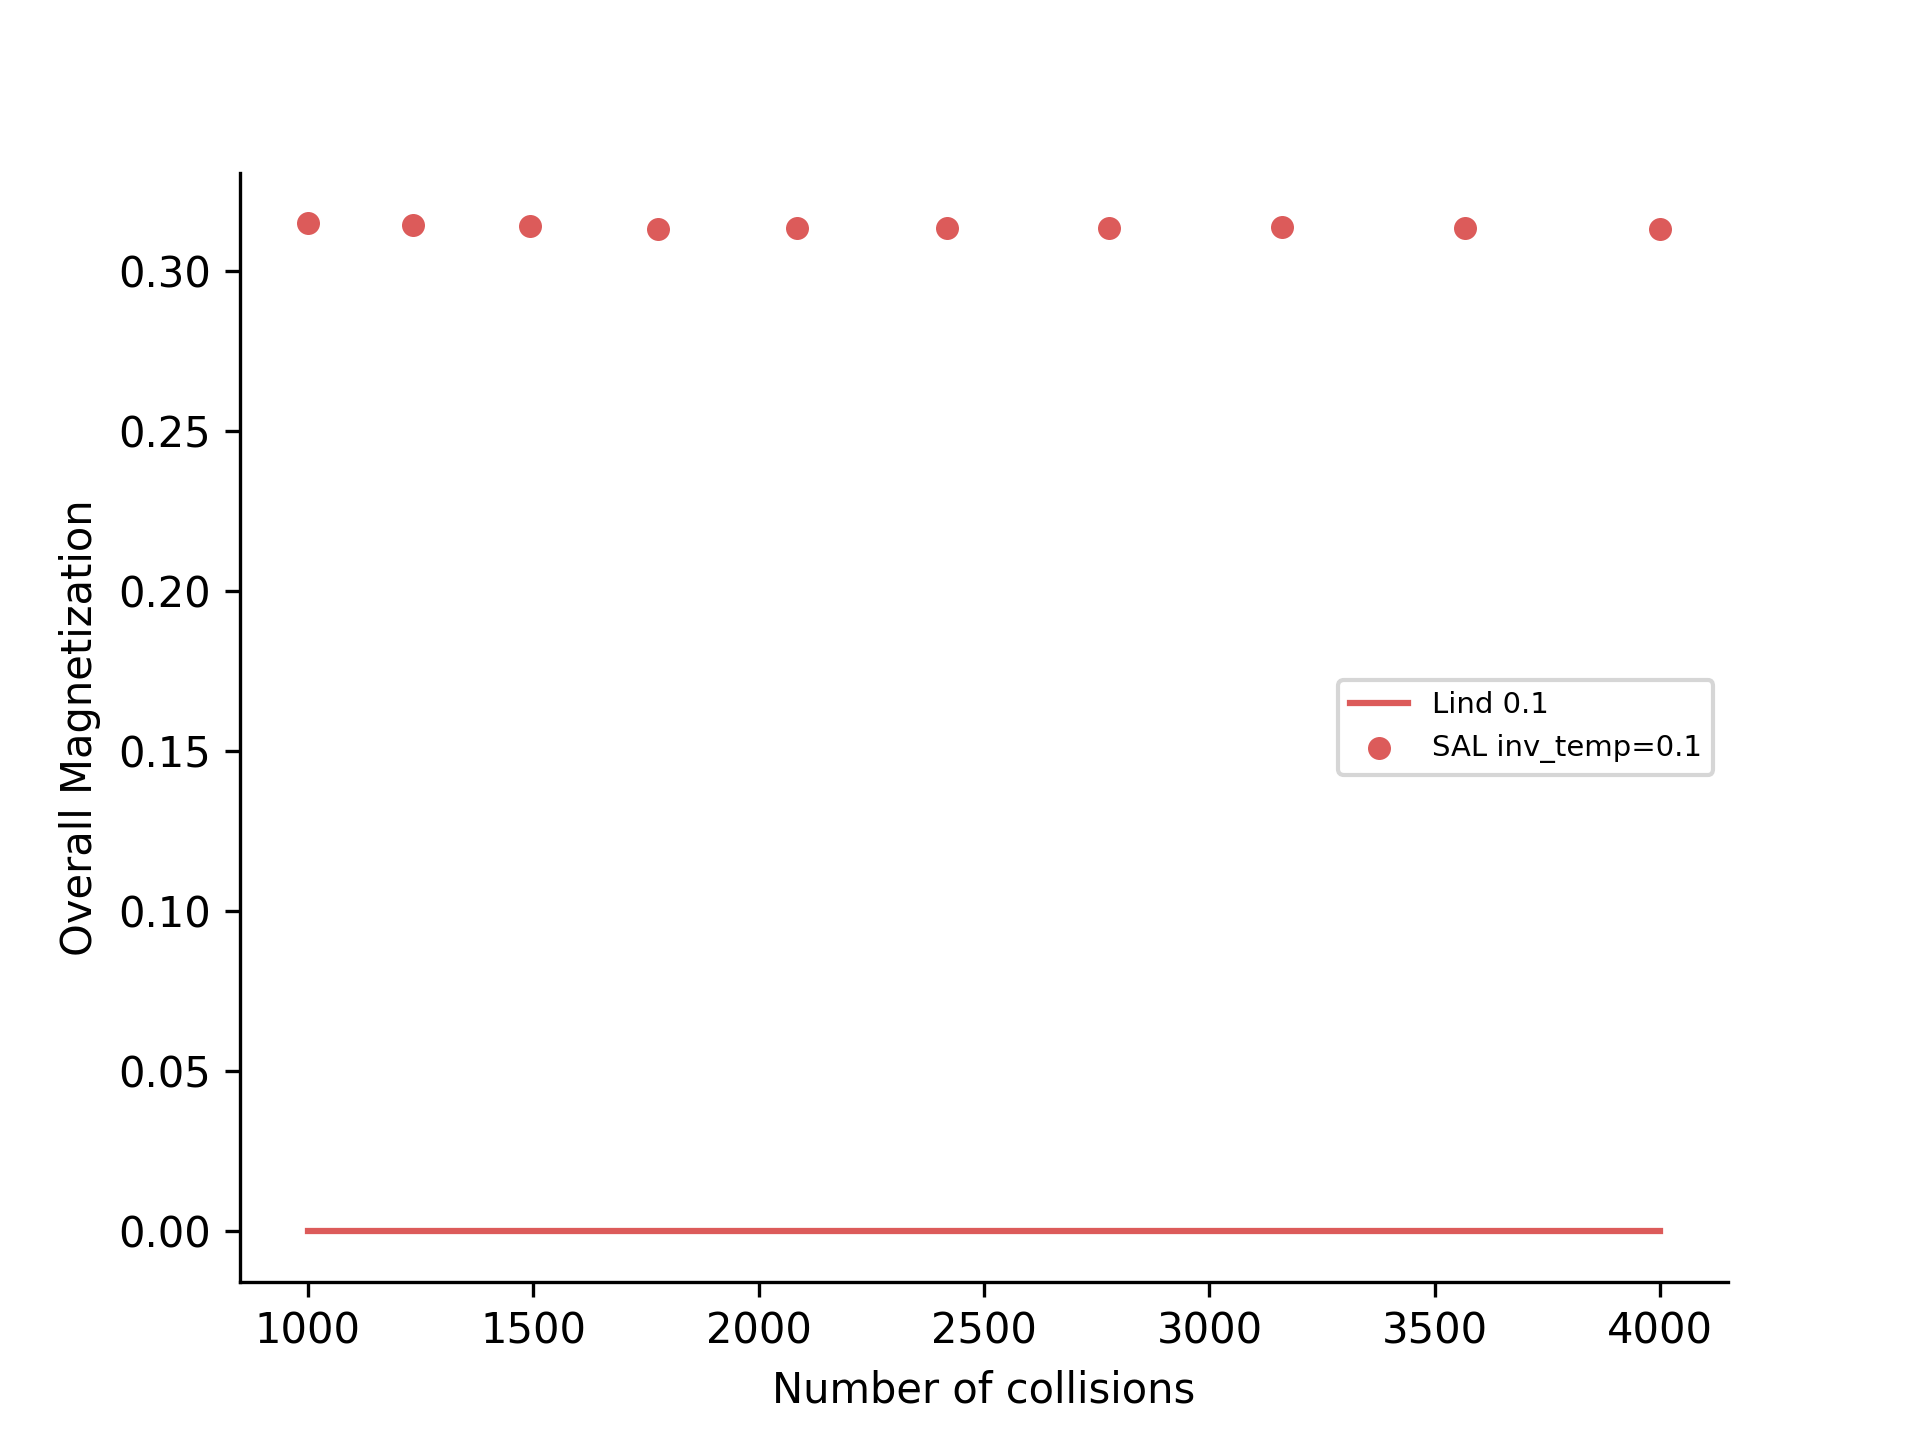
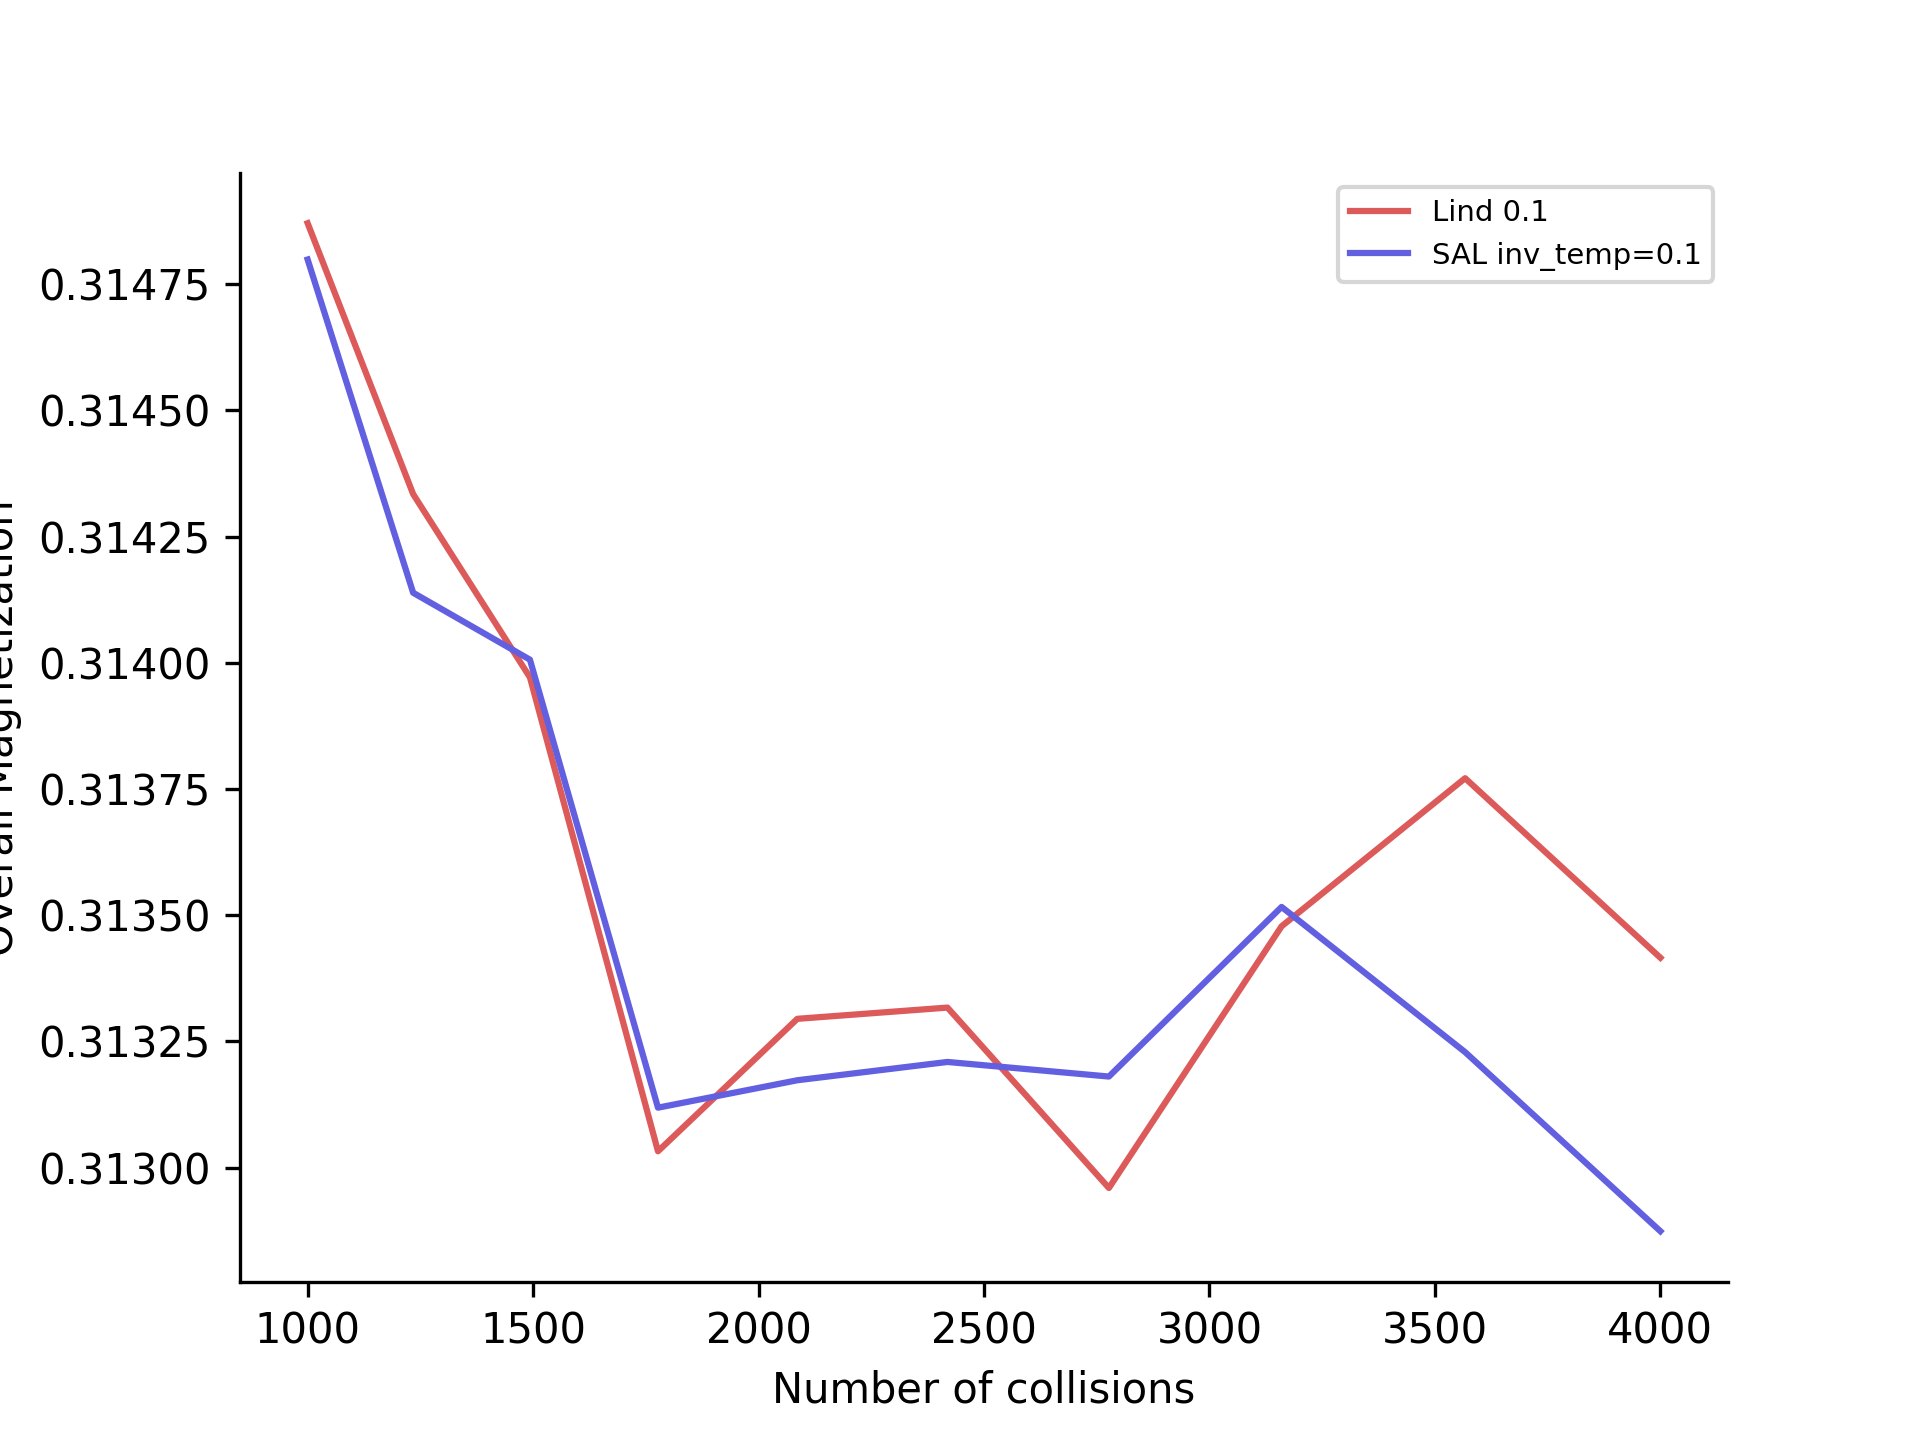
another bad plot

diff --git a/ising/nonmarkovian/swap/multi_temperature.py b/ising/nonmarkovian/swap/multi_temperature.py
@@ -24,12 +24,12 @@ def calculate_gamma(beta):
     return np.exp(-beta) / (1 + np.exp(-beta))
 
 
-QUBIT_COUNT = 7
+QUBIT_COUNT = 6
 GAMMA = 0.1
 PS_COUNT = 5
 PS_STRENGTH = np.pi/2 - 0.3
 TIME_RANGE = (10, 20)
-TIME_COUNT = 20
+TIME_COUNT = 10
 EPS = 1
 # INV_TEMP = 1
 
@@ -83,7 +83,6 @@ def lindblad_evo(rho, ham, gamma, z, time, observable):
         - gamma: Strength of amplitude damping
         - time: evolution time
     """
-    return 0
     # columnize
     rho_vec = rho.reshape(-1, 1)
 
